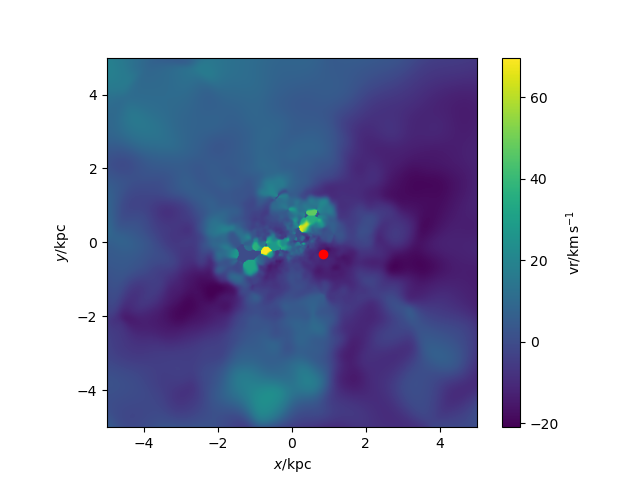
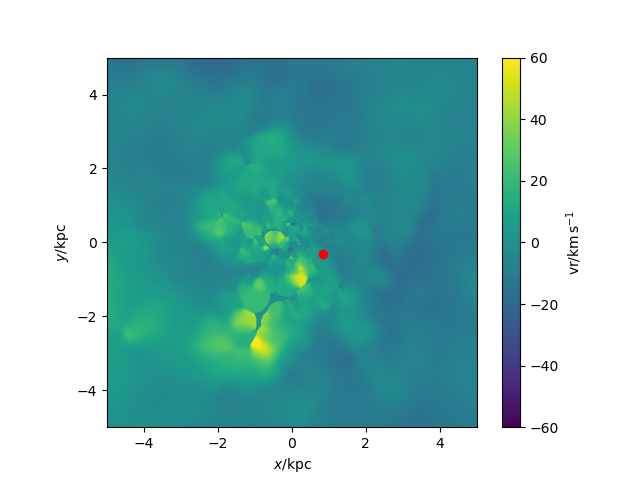
fixed colorbar min and max

diff --git a/tempslice_velocity.py b/tempslice_velocity.py
@@ -15,7 +15,7 @@ pynbody.analysis.angmom.sideon(s)
 s.rotate_x(90)
 
 #creating temp slice with velocity plot
-sph.image(s.g,qty="vr",qty_min=-60,denoise=True,approximate_fast=False,log=False)
+sph.image(s.g,qty="vr",vmin=-60,vmax=60,denoise=True,approximate_fast=False,log=False)
 
 #function to find BH
 def findBH(s):
